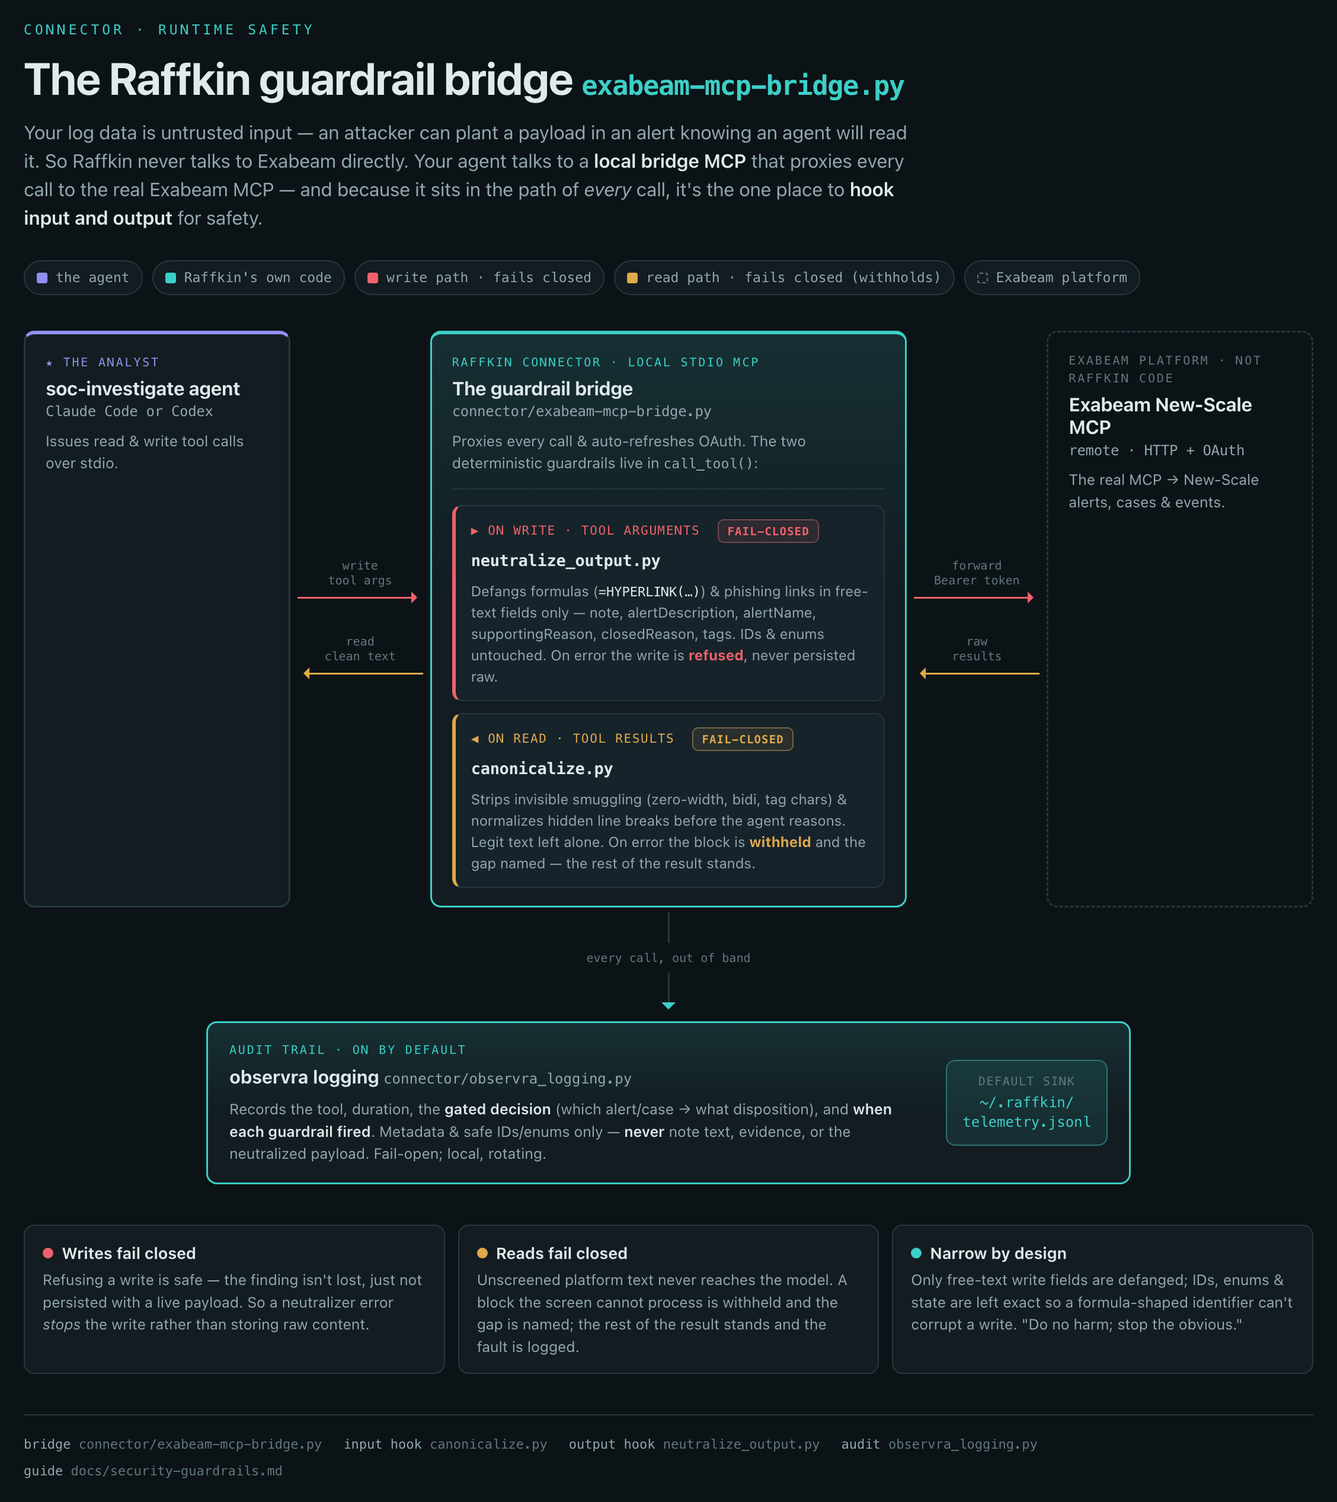
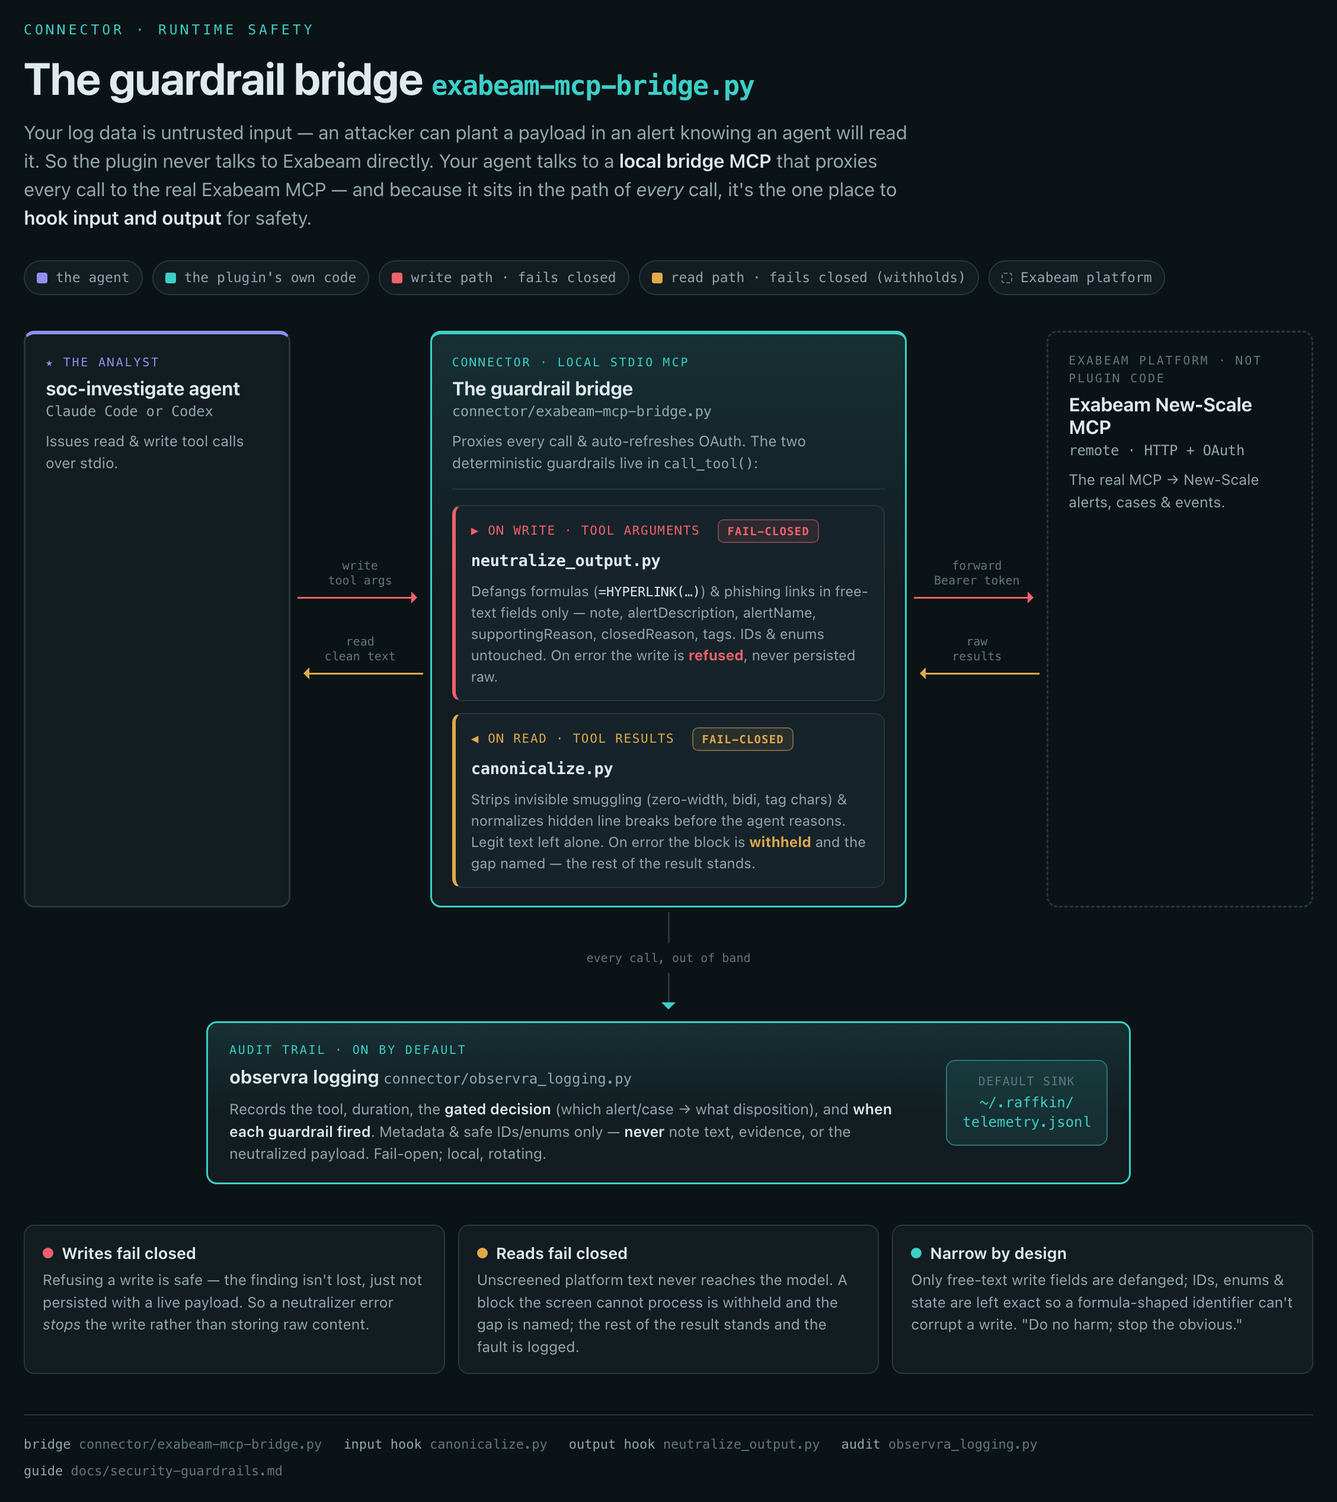
gen_identity: a distribution names its own product in the prose (productName) (#282)
* gen_identity: a distribution names its own product in the prose (productName)

identity.json gains productName, the product's English name as prose uses it mid-sentence ('Raffkin';
a distribution's 'the Exabeam Agentic SOC plugin'), recorded in identity.sh so a re-key knows the
previous name. On a re-key the generator replaces the previous name in README, docs and skills prose,
with the article kept in agreement and capitals at sentence, heading, list, table and attribute starts.
Identifiers are not prose and stay: paths (~/.raffkin), variables (RAFFKIN_*), URLs, inline code, code
fences other than diagram source, and the messages the code prints ('Raffkin gate:', 'Raffkin bridge').
A no-op for the community build.

Claude-Session: https://claude.ai/code/session_016Q9UohWfy2scPhr4pavhqd

* gen_identity: prose rename fixes from review — determiners, wrapped lines, labels, exact message literals; the attribution keeps the upstream name; the guardrails figure is product-neutral (#282 review)

- 'no/every/this/your/each/any Raffkin' take the bare name; a/an agree
- a name opening a hard-wrapped continuation line stays lowercase; a new paragraph, heading, list item,
  table cell, attribute value or diagram label is capitalized; no capital after a mid-sentence colon or
  an abbreviation (e.g., i.e.)
- only the code's own messages are exempt ('Raffkin gate:', 'Raffkin bridge refused'); ~~~ fences are code
[…]

Changed region(s): [[0.031, 0.0935, 0.6826, 0.1871], [0.0621, 0.0312, 0.6826, 0.0624], [0.4654, 0.1559, 0.4965, 0.1871]]

diff --git a/plugin/docs/diagram/guardrails.html b/plugin/docs/diagram/guardrails.html
@@ -6,7 +6,7 @@
   embedded in ../security-guardrails.md. Edit this file, then regenerate the PNGs — see the
   README.md in this directory. Self-contained; a #light / #dark URL hash lets the renderer stamp the theme.
 -->
-<title>Raffkin guardrail bridge</title>
+<title>The guardrail bridge</title>
 <script>
   document.documentElement.setAttribute("data-theme", (location.hash.replace("#", "") || "light"));
 </script>
@@ -138,17 +138,17 @@
 
 <div class="wrap">
   <p class="eyebrow">connector · runtime safety</p>
-  <h1>The Raffkin guardrail bridge <span class="mono">exabeam-mcp-bridge.py</span></h1>
+  <h1>The guardrail bridge <span class="mono">exabeam-mcp-bridge.py</span></h1>
   <p class="lede">
     Your log data is untrusted input — an attacker can plant a payload in an alert knowing an agent will
-    read it. So Raffkin never talks to Exabeam directly. Your agent talks to a <strong>local bridge MCP</strong>
+    read it. So the plugin never talks to Exabeam directly. Your agent talks to a <strong>local bridge MCP</strong>
     that proxies every call to the real Exabeam MCP — and because it sits in the path of <em>every</em>
     call, it's the one place to <strong>hook input and output</strong> for safety.
   </p>
 
   <div class="keyrow">
     <span class="key"><span class="swatch" style="background:var(--spotlight)"></span>the agent</span>
-    <span class="key"><span class="swatch" style="background:var(--accent)"></span>Raffkin's own code</span>
+    <span class="key"><span class="swatch" style="background:var(--accent)"></span>the plugin's own code</span>
     <span class="key"><span class="swatch" style="background:var(--closed)"></span>write path · fails closed</span>
     <span class="key"><span class="swatch" style="background:var(--open)"></span>read path · fails closed (withholds)</span>
     <span class="key"><span class="swatch dash"></span>Exabeam platform</span>
@@ -177,7 +177,7 @@
     <!-- bridge -->
     <div class="col bridge">
       <div class="brhead">
-        <div class="role">Raffkin connector · local stdio MCP</div>
+        <div class="role">Connector · local stdio MCP</div>
         <div class="nm">The guardrail bridge<span class="path">connector/exabeam-mcp-bridge.py</span></div>
         <div class="sub">Proxies every call &amp; auto-refreshes OAuth. The two deterministic guardrails live in <code style="font-family:var(--mono);font-size:11.5px">call_tool()</code>:</div>
       </div>
@@ -209,7 +209,7 @@
 
     <!-- remote -->
     <div class="col remote">
-      <div class="role">exabeam platform · not Raffkin code</div>
+      <div class="role">exabeam platform · not plugin code</div>
       <div class="nm">Exabeam New-Scale MCP<span class="path">remote · HTTP + OAuth</span></div>
       <div class="sub">The real MCP → New-Scale alerts, cases &amp; events.</div>
     </div>

diff --git a/guide/security-guardrails.html b/guide/security-guardrails.html
@@ -277,7 +277,7 @@ Raffkin.</p>
 <p align="center">
   <picture>
     <source media="(prefers-color-scheme: dark)" srcset="https://raw.githubusercontent.com/open-agent-ai-security/raffkin/main/plugin/docs/diagram/guardrails-dark.png">
-    <img alt="Raffkin guardrail bridge: your agent (Claude Code or Codex) talks to a local bridge MCP that proxies to the remote Exabeam MCP. On writes, neutralize_output defangs formulas and links and redacts secrets/structured identifiers in free-text fields (fail-closed); on reads, canonicalize strips invisible smuggling before the agent reasons (fail-closed: a block it cannot process is withheld); observra records a metadata-only audit trail (never note text, evidence or payloads)." src="https://raw.githubusercontent.com/open-agent-ai-security/raffkin/main/plugin/docs/diagram/guardrails-light.png" width="100%">
+    <img alt="The guardrail bridge: your agent (Claude Code or Codex) talks to a local bridge MCP that proxies to the remote Exabeam MCP. On writes, neutralize_output defangs formulas and links and redacts secrets/structured identifiers in free-text fields (fail-closed); on reads, canonicalize strips invisible smuggling before the agent reasons (fail-closed: a block it cannot process is withheld); observra records a metadata-only audit trail (never note text, evidence or payloads)." src="https://raw.githubusercontent.com/open-agent-ai-security/raffkin/main/plugin/docs/diagram/guardrails-light.png" width="100%">
   </picture>
 </p>
 

diff --git a/plugin/gen_identity.py b/plugin/gen_identity.py
@@ -81,6 +81,12 @@ def check_server(identity, perms):
                  f"/ the .mcp*.json server key ({sorted(got)}) — the three must agree; nothing was written")
 
 
+def product_name(identity):
+    """The product's name as English prose uses it, mid-sentence, article included when the name needs one
+    ("Raffkin"; a distribution's "the Exabeam Agentic SOC plugin"). Defaults to the upstream name."""
+    return identity.get("productName") or "Raffkin"     # the upstream project's name, never the bare plugin key
+
+
 def shell_include(identity, perms):
     lines = ["# Copyright 2026 Exabeam, Inc.", f"# SPDX-License-Identifier: {identity['license']}",
              "# GENERATED by gen_identity.py from identity.json — do not edit; CI fails if this drifts.",
@@ -90,7 +96,8 @@ def shell_include(identity, perms):
              f"RAFFKIN_ID_LICENSE={shlex.quote(identity['license'])}",
              f"RAFFKIN_ID_MCP_SERVER={shlex.quote(perms['server'])}",
              f"RAFFKIN_ID_MARKETPLACE_REPO={shlex.quote(identity['marketplace']['repo'])}",
-             f"RAFFKIN_ID_MARKETPLACE_NAME={shlex.quote(identity['marketplace']['name'])}"]
+             f"RAFFKIN_ID_MARKETPLACE_NAME={shlex.quote(identity['marketplace']['name'])}",
+             f"RAFFKIN_ID_PRODUCT_NAME={shlex.quote(product_name(identity))}"]
     return "\n".join(lines) + "\n"
 
 
@@ -117,7 +124,8 @@ def previous_identity():
         return None
     return {"key": f"{vals['RAFFKIN_ID_NAME']}@{vals['RAFFKIN_ID_MARKETPLACE_NAME']}", "repo": vals["RAFFKIN_ID_MARKETPLACE_REPO"],
             "name": vals["RAFFKIN_ID_NAME"], "marketplace": vals["RAFFKIN_ID_MARKETPLACE_NAME"],
-            "license": vals.get("RAFFKIN_ID_LICENSE", "")}      # absent in copies generated before the license followed
+            "license": vals.get("RAFFKIN_ID_LICENSE", ""),      # absent in copies generated before the license followed
+            "product": vals.get("RAFFKIN_ID_PRODUCT_NAME") or "Raffkin"}  # copies generated before the prose name followed were Raffkin
 
 
 def install_key(identity):
@@ -202,6 +210,81 @@ def _switch_distribution_prose(text):
     return text.rstrip("\n") + "\n" if text.strip() else text
 
 
+# The product's English name in prose (#261 follow-up). A distribution that ships this payload under its own
+# product name must never name the upstream project in its prose: "How Raffkin works" becomes "How the Exabeam
+# Agentic SOC plugin works". Identifiers stay: paths (~/.raffkin), variables (RAFFKIN_*), URLs and the messages
+# the code prints ("Raffkin gate:", "Raffkin bridge refused") are what the payload really uses, so the prose
+# that documents them keeps them. Code is skipped too, except diagram source (mermaid), whose labels are prose.
+_PROSE_BEFORE = r"[A-Za-z0-9_./@\-]"
+_PROSE_AFTER = r"(?:[A-Za-z0-9_/]|-(?=[A-Za-z0-9]))"
+_MESSAGE_AFTER = re.compile(r" (?:gate:|gate could|bridge refused|bridge:)")
+# The attribution form names the included open-source project itself and keeps it, the way a product says it
+# "includes Linux": "The software in this copy is Raffkin, open source under the Apache License 2.0".
+_ATTRIBUTION_AFTER = re.compile(r", open source\b")
+_ENDS_SENTENCE = (".", "!", "?", "|", "—", "=", "{", "[")
+
+
+def _rename_prose(text, old, new):
+    """Replace the product name `old` with `new` in prose only: outside inline code and code fences other than
+    diagram source, not inside an identifier, a path or a URL, and not where it opens one of the code's own
+    messages.
+
+    `new` carries its own article when it needs one ("the Exabeam Agentic SOC plugin"). Where the prose already
+    puts a determiner before the name ("not a Raffkin setting", "every Raffkin skill"), that word is kept, fixed
+    to agree ("an Exabeam Agentic SOC plugin setting"), and the name goes in without its own article. A name
+    that starts a sentence, heading, list item, table cell, attribute value or diagram label is capitalized; a
+    name opening a hard-wrapped continuation line is not."""
+    if not old or old == new:
+        return text
+    bare = new[4:] if new.lower().startswith("the ") else new       # the name without its own article
+    pat = re.compile(rf"(?:(?<![A-Za-z])(?P<det>[Aa]n?|[Tt]he|THE|[Nn]o|[Ee]very|[Tt]his|[Yy]our|[Ee]ach|[Aa]ny)\s+)?"
+                     rf"(?<!{_PROSE_BEFORE}){re.escape(old)}(?!{_PROSE_AFTER})")
+
+    def sub(seg, done, prev_line):
+        out, last = [], 0
+        for m in pat.finditer(seg):
+            if _MESSAGE_AFTER.match(seg, m.end()) or _ATTRIBUTION_AFTER.match(seg, m.end()):
+                continue
+            det = m.group("det")
+            if det:
+                if det.lower() in ("a", "an"):
+                    vowel = bare[:1].lower() in "aeiou"
+                    det = ("An" if det[0].isupper() else "an") if vowel else ("A" if det[0].isupper() else "a")
+                rep = f"{det} {bare}"
+            else:
+                rep = new
+                before = re.sub(r"[\s*_(\"“']+$", "", done + seg[:m.start()])
+                opener = re.sub(r"^[\s#>|\-*+\d.)\[\]]*", "", before)
+                if opener:
+                    cap = before.endswith(_ENDS_SENTENCE) and not before.lower().endswith(("e.g.", "i.e.", "etc.", "vs."))
+                else:        # the name opens the line: a new sentence unless it continues a wrapped one
+                    p = prev_line.strip()
+                    cap = (not p or p.startswith(("#", "|", "-", "*", ">", "<")) or p.endswith(_ENDS_SENTENCE + (":",))
+                           or bool(re.match(r"^\s*([#>|]|[-*+]\s|\d+[.)]\s)", done + seg[:m.start()])))
+                if cap:
+                    rep = rep[:1].upper() + rep[1:]
+            out.append(seg[last:m.start()] + rep); last = m.end()
+        return "".join(out) + seg[last:]
+
+    lines, fence, prev = [], None, ""
+    for line in text.split("\n"):
+        stripped = line.strip()
+        if stripped.startswith(("```", "~~~")):
+            mark = stripped[:3]
+            if fence is None:
+                fence = (mark, stripped[3:].strip().lower() or "code")
+            elif stripped.startswith(fence[0]) and not stripped[3:].strip():
+                fence = None
+            lines.append(line); prev = line; continue
+        if fence is not None and fence[1] != "mermaid":
+            lines.append(line); prev = line; continue
+        parts, done = re.split(r"(`[^`]*`)", line), ""       # odd indexes are inline code, left alone
+        for i, part in enumerate(parts):
+            done += part if i % 2 else sub(part, done, prev)
+        lines.append(done); prev = line
+    return "\n".join(lines)
+
+
 def rewrite_docs(prev, identity):
     """Replace the previous install key, marketplace repo, marketplace name and plugin cache path with the
     current ones in the shipped prose and the shell fallbacks. Exact strings at identifier boundaries;
@@ -216,6 +299,7 @@ def rewrite_docs(prev, identity):
     subs = [(a, b) for a, b in subs if a and a != b and not a.startswith("plugins/cache//")]
     bare = (prev_mkt, new_mkt) if prev_mkt and prev_mkt != new_mkt else None
     switch = bool(identity.get("distribution"))
+    prose = (prev.get("product", ""), product_name(identity))
     changed, kept = [], []
     for f in doc_files():
         text = f.read_text()
@@ -225,6 +309,7 @@ def rewrite_docs(prev, identity):
             new = re.sub(rf"(?<!{_BARE_BEFORE}){re.escape(bare[0])}(?!{_BARE_AFTER})", bare[1], new)
         if switch:
             new = _switch_distribution_prose(new)
+        new = _rename_prose(new, *prose)
         if new != text:
             f.write_text(new); changed.append(f)
     return changed, kept

diff --git a/tests/test_repo_invariants.py b/tests/test_repo_invariants.py
@@ -937,9 +937,11 @@ def test_gen_identity_rekey_with_a_distribution_block_serves_that_distributions_
     assert "plugins/cache/exabeam/soc/<version>/preflight.sh" in g and "plugins/cache/open-agent-ai-security" not in g
     assert "claude plugin marketplace update exabeam" in g and 'marketplace remove exabeam' in g and '"exabeam": {' in g
     assert "<!-- community-only -->" in g and "community release" in g, "no distribution block: the community prose stays"
-    # now WITH the block: the community-only prose goes, the distribution-only prose appears
+    # now WITH the block: the community-only prose goes, the distribution-only prose appears; the distribution
+    # also names its own product in English, so the upstream project's name leaves the prose
     ident["distribution"] = {"license": "LicenseRef-Exabeam-Enterprise-Agreement",
                              "homepage": "https://github.com/Exabeam-Labs/plugins", "repository": "https://github.com/Exabeam-Labs/plugins"}
+    ident["productName"] = "the Exabeam Agentic SOC plugin"
     (work / "identity.json").write_text(json.dumps(ident, indent=2) + "\n")
     subprocess.run(gen, check=True, capture_output=True, text=True)
     for f in (guide, support, readme):
@@ -957,6 +959,15 @@ def test_gen_identity_rekey_with_a_distribution_block_serves_that_distributions_
         for m in re.finditer(r"open-agent-ai-security", f.read_text()):
             ctx = f.read_text()[max(0, m.start() - 20):m.end() + 12]
             assert "github.com/open-agent-ai-security/" in ctx or "open-agent-ai-security.github.io" in ctx, (f.name, ctx)
+    # the product's English name: no prose "Raffkin" survives; what does survive is what the code really uses —
+    # a message it prints, quoted in a code block — and paths and variables stay lowercase identifiers
+    for f in [readme, *sorted((work / "docs").rglob("*.md")), *sorted((work / "skills").rglob("*.md"))]:
+        for n, line in enumerate(f.read_text().split("\n"), 1):
+            for m in re.finditer(r"Raffkin", line):
+                assert line[m.end():].startswith((" gate:", " gate could", " bridge refused", " bridge:", ", open source")), \
+                    f"{f.name}:{n}: prose still names Raffkin: {line.strip()[:100]}"
+            assert not re.search(r"\b(?:[Aa]n?|[Tt]he|[Nn]o|[Ee]very|[Tt]his|[Yy]our|[Ee]ach|[Aa]ny) the Exabeam", line), f"{f.name}:{n}: stacked article"
+    assert "The Exabeam Agentic SOC plugin" in rd and "~/.raffkin/" in (work / "docs" / "logging.md").read_text()
     # idempotent and --check clean
     before = (g, sp, rd)
     subprocess.run(gen, check=True, capture_output=True, text=True)
@@ -1011,3 +1022,43 @@ def test_no_tracked_text_file_carries_a_nul_byte():
     files = subprocess.run(["git", "ls-files"], cwd=ROOT, capture_output=True, text=True, check=True).stdout.split("\n")
     bad = [f for f in files if f and not f.lower().endswith(binary) and (ROOT / f).is_file() and b"\x00" in (ROOT / f).read_bytes()]
     assert not bad, f"NUL bytes in tracked text files: {bad}"
+
+
+@pytest.mark.parametrize("src, want", [
+    ("# Raffkin", "# The Exabeam Agentic SOC plugin"),
+    ("what Raffkin asks you", "what the Exabeam Agentic SOC plugin asks you"),
+    ("it is not a Raffkin setting", "it is not an Exabeam Agentic SOC plugin setting"),
+    ("The Raffkin guardrail bridge", "The Exabeam Agentic SOC plugin guardrail bridge"),
+    ("importantly, Raffkin's guardrails", "importantly, the Exabeam Agentic SOC plugin's guardrails"),
+    ('<img alt="Raffkin guardrail bridge">', '<img alt="The Exabeam Agentic SOC plugin guardrail bridge">'),
+    ("| Raffkin | x |", "| The Exabeam Agentic SOC plugin | x |"),
+    ("done. Raffkin then", "done. The Exabeam Agentic SOC plugin then"),
+    ("and no Raffkin skill applies", "and no Exabeam Agentic SOC plugin skill applies"),
+    ("every Raffkin skill", "every Exabeam Agentic SOC plugin skill"),
+    ("A Raffkin note", "An Exabeam Agentic SOC plugin note"),
+    ("cannot do harm through\nRaffkin.", "cannot do harm through\nthe Exabeam Agentic SOC plugin."),
+    ("Previous paragraph.\n\nRaffkin reads it", "Previous paragraph.\n\nThe Exabeam Agentic SOC plugin reads it"),
+    ("no middle here: Raffkin does", "no middle here: the Exabeam Agentic SOC plugin does"),
+    ("e.g. Raffkin", "e.g. the Exabeam Agentic SOC plugin"),
+    ('```mermaid\nS{{"Raffkin skill"}}\n```', '```mermaid\nS{{"The Exabeam Agentic SOC plugin skill"}}\n```'),
+    ("The Raffkin gate blocks it", "The Exabeam Agentic SOC plugin gate blocks it"),
+    # the attribution form names the included open-source project, which keeps its own name
+    ("The software in this copy is Raffkin, open source under the Apache License 2.0",
+     "The software in this copy is Raffkin, open source under the Apache License 2.0"),
+    ("```\nRaffkin in a code block\n```", "```\nRaffkin in a code block\n```"),
+    ("~~~\nRaffkin in a code block\n~~~", "~~~\nRaffkin in a code block\n~~~"),
+    # identifiers and the code's own messages are left exactly as the code uses them
+    ("~/.raffkin/ and `Raffkin gate: x`", "~/.raffkin/ and `Raffkin gate: x`"),
+    ('"reason": "Raffkin gate: y"', '"reason": "Raffkin gate: y"'),
+    ("Raffkin bridge refused it", "Raffkin bridge refused it"),
+    ("https://github.com/open-agent-ai-security/raffkin", "https://github.com/open-agent-ai-security/raffkin"),
+])
+def test_a_distribution_names_its_own_product_in_the_prose(src, want):
+    """A distribution ships the payload under its own product name: the upstream project's English name is
+    replaced in prose, with articles and capitals right, and never inside an identifier or a quoted message."""
+    import importlib.util
+    spec = importlib.util.spec_from_file_location("gen_identity_prose", ROOT / "plugin" / "gen_identity.py")
+    g = importlib.util.module_from_spec(spec); spec.loader.exec_module(g)
+    assert g._rename_prose(src, "Raffkin", "the Exabeam Agentic SOC plugin") == want
+    assert g._rename_prose(src, "Raffkin", "Raffkin") == src, "the upstream distribution's own name is a no-op"
+

diff --git a/plugin/docs/security-guardrails.md b/plugin/docs/security-guardrails.md
@@ -19,7 +19,7 @@ Raffkin.
 <p align="center">
   <picture>
     <source media="(prefers-color-scheme: dark)" srcset="diagram/guardrails-dark.png">
-    <img alt="Raffkin guardrail bridge: your agent (Claude Code or Codex) talks to a local bridge MCP that proxies to the remote Exabeam MCP. On writes, neutralize_output defangs formulas and links and redacts secrets/structured identifiers in free-text fields (fail-closed); on reads, canonicalize strips invisible smuggling before the agent reasons (fail-closed: a block it cannot process is withheld); observra records a metadata-only audit trail (never note text, evidence or payloads)." src="diagram/guardrails-light.png" width="100%">
+    <img alt="The guardrail bridge: your agent (Claude Code or Codex) talks to a local bridge MCP that proxies to the remote Exabeam MCP. On writes, neutralize_output defangs formulas and links and redacts secrets/structured identifiers in free-text fields (fail-closed); on reads, canonicalize strips invisible smuggling before the agent reasons (fail-closed: a block it cannot process is withheld); observra records a metadata-only audit trail (never note text, evidence or payloads)." src="diagram/guardrails-light.png" width="100%">
   </picture>
 </p>
 

diff --git a/CHANGELOG.md b/CHANGELOG.md
@@ -52,6 +52,11 @@ class B trials graded landed were confirmed benign from their transcripts (#278)
 - **The redactor masks unlabeled `sk-`, `sk-proj-`, `sk-ant-` and `glpat-` keys** by their shape, leaving
   hostnames and branch names alone (#268).
 - **Turning audit logging off is announced on stderr** (#215).
+- **A distribution names its own product in the docs** (#282). `identity.json` carries `productName`, and
+  when a catalog re-keys the plugin, `gen_identity.py` replaces the upstream name in the README, docs and
+  skills prose with the distribution's (for example, "the Exabeam Agentic SOC plugin"). Paths, variables,
+  URLs, code and the messages the code prints keep their names, and the attribution sentence keeps naming
+  the included open-source project. The guardrails diagram names no product.
 
 ### Changed
 
